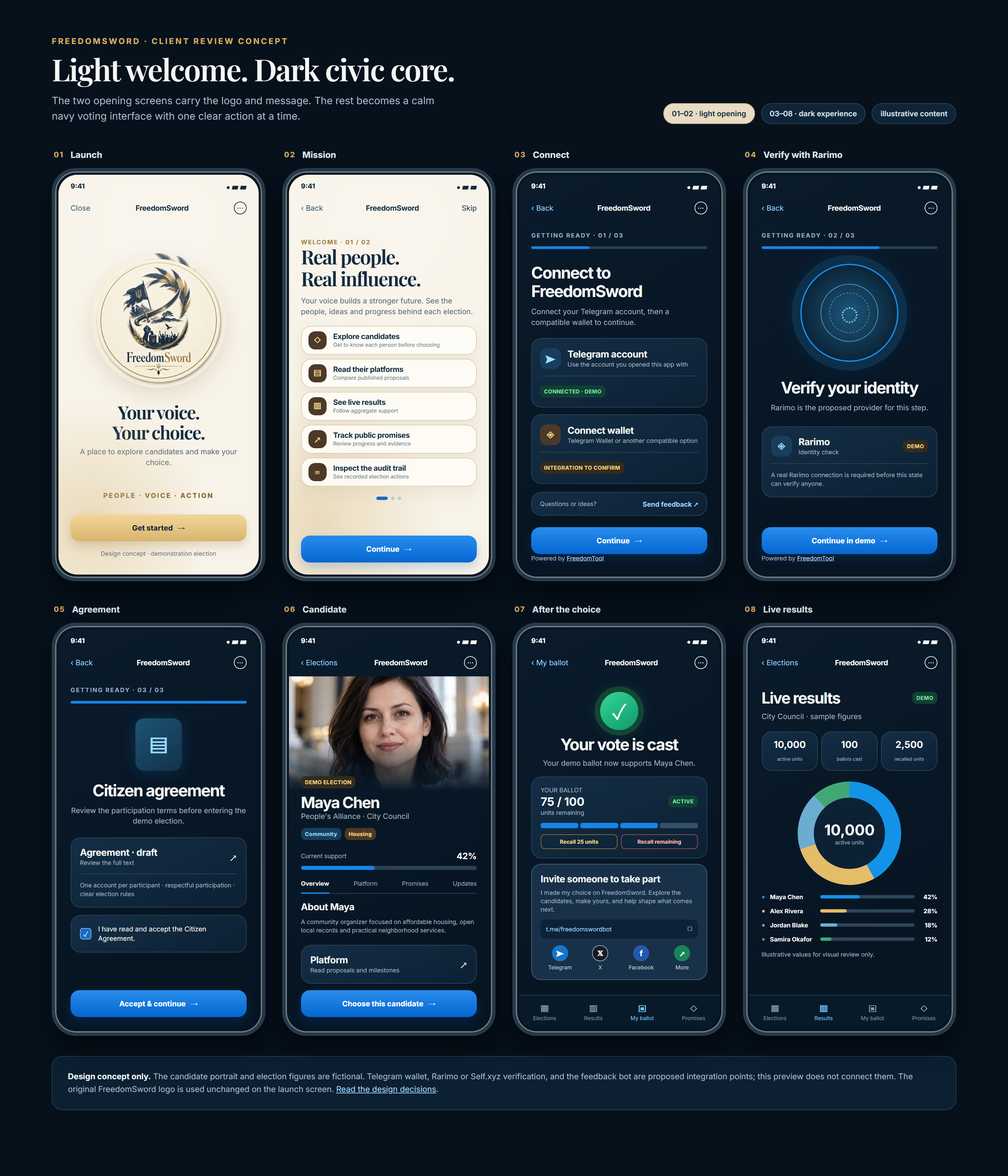
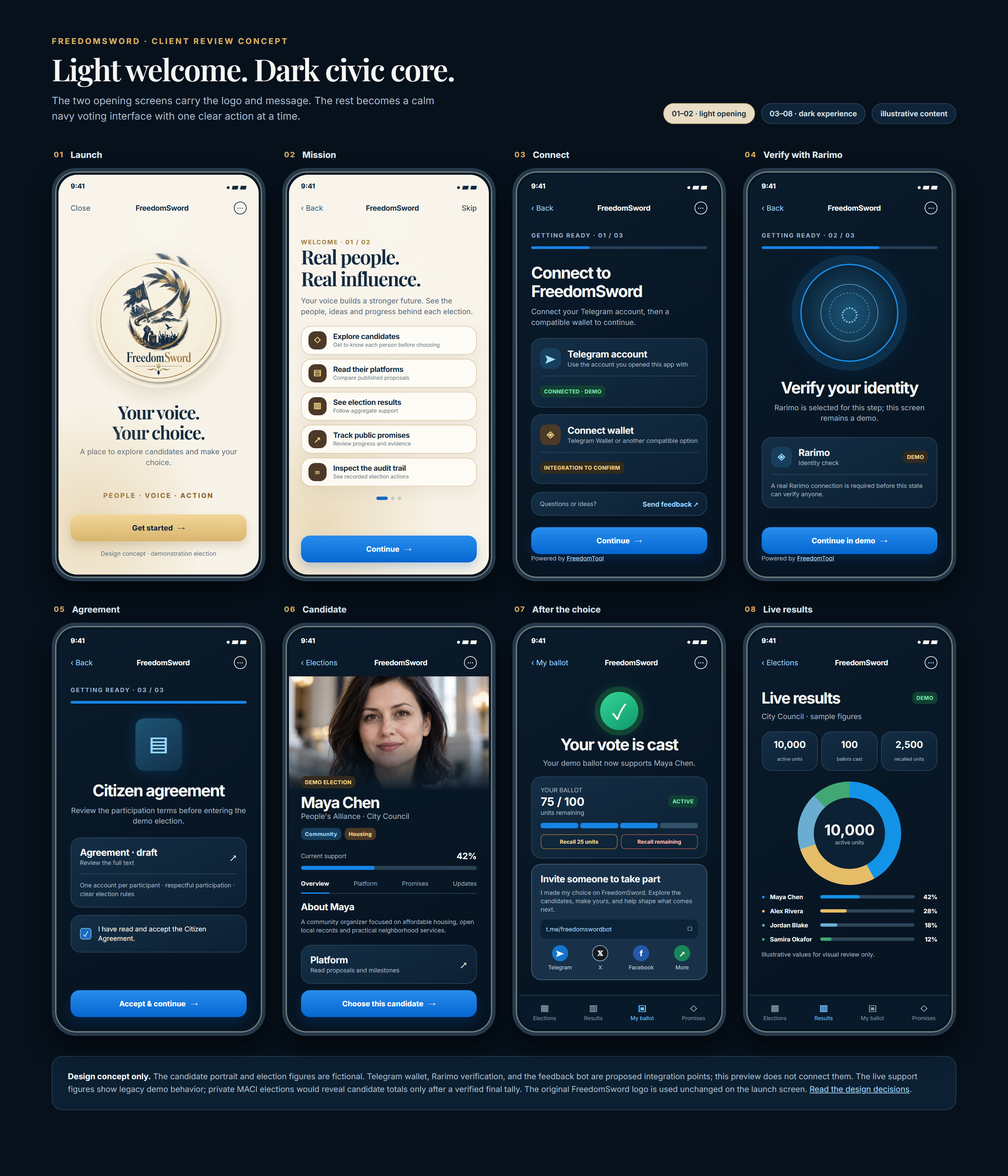
Record Rarimo and MACI private voting direction

diff --git a/docs/client-design-preview.html b/docs/client-design-preview.html
@@ -167,15 +167,15 @@
   </div>
   <section class="grid" aria-label="FreedomSword design screens">
     <article class="frame"><div class="frame-label"><span>01</span> Launch</div><div class="phone"><div class="screen light welcome"><div class="status"><span>9:41</span><span>● ▰ ▰</span></div><div class="topbar"><span class="back">Close</span><strong>FreedomSword</strong><span class="more">···</span></div><img class="logo-original" src="../frontend/public/brand/logo.jpg" alt="Original FreedomSword logo"><h2 class="serif">Your voice.<br>Your choice.</h2><p class="sub">A place to explore candidates and make your choice.</p><div class="motto">People · Voice · Action</div><div class="bottom"><a class="btn ivory" href="#mission">Get started <span aria-hidden="true">→</span></a><p class="tiny">Design concept · demonstration election</p></div></div></div></article>
-    <article class="frame" id="mission"><div class="frame-label"><span>02</span> Mission</div><div class="phone"><div class="screen light"><div class="status"><span>9:41</span><span>● ▰ ▰</span></div><div class="topbar"><span class="back">‹ Back</span><strong>FreedomSword</strong><span>Skip</span></div><div class="content mission"><p class="step" style="color:#a67e3d">Welcome · 01 / 02</p><h2>Real people.<br>Real influence.</h2><p class="sub">Your voice builds a stronger future. See the people, ideas and progress behind each election.</p><div class="mission-list"><div class="card row"><span class="icon gold">◇</span><div><h3>Explore candidates</h3><p class="tiny">Get to know each person before choosing</p></div></div><div class="card row"><span class="icon gold">▤</span><div><h3>Read their platforms</h3><p class="tiny">Compare published proposals</p></div></div><div class="card row"><span class="icon gold">▥</span><div><h3>See live results</h3><p class="tiny">Follow aggregate support</p></div></div><div class="card row"><span class="icon gold">↗</span><div><h3>Track public promises</h3><p class="tiny">Review progress and evidence</p></div></div><div class="card row"><span class="icon gold">≡</span><div><h3>Inspect the audit trail</h3><p class="tiny">See recorded election actions</p></div></div></div><div class="dots"><b></b><b></b><b></b></div></div><div class="bottom"><a class="btn" href="#connect">Continue <span aria-hidden="true">→</span></a></div></div></div></article>
+    <article class="frame" id="mission"><div class="frame-label"><span>02</span> Mission</div><div class="phone"><div class="screen light"><div class="status"><span>9:41</span><span>● ▰ ▰</span></div><div class="topbar"><span class="back">‹ Back</span><strong>FreedomSword</strong><span>Skip</span></div><div class="content mission"><p class="step" style="color:#a67e3d">Welcome · 01 / 02</p><h2>Real people.<br>Real influence.</h2><p class="sub">Your voice builds a stronger future. See the people, ideas and progress behind each election.</p><div class="mission-list"><div class="card row"><span class="icon gold">◇</span><div><h3>Explore candidates</h3><p class="tiny">Get to know each person before choosing</p></div></div><div class="card row"><span class="icon gold">▤</span><div><h3>Read their platforms</h3><p class="tiny">Compare published proposals</p></div></div><div class="card row"><span class="icon gold">▥</span><div><h3>See election results</h3><p class="tiny">Follow aggregate support</p></div></div><div class="card row"><span class="icon gold">↗</span><div><h3>Track public promises</h3><p class="tiny">Review progress and evidence</p></div></div><div class="card row"><span class="icon gold">≡</span><div><h3>Inspect the audit trail</h3><p class="tiny">See recorded election actions</p></div></div></div><div class="dots"><b></b><b></b><b></b></div></div><div class="bottom"><a class="btn" href="#connect">Continue <span aria-hidden="true">→</span></a></div></div></div></article>
     <article class="frame" id="connect"><div class="frame-label"><span>03</span> Connect</div><div class="phone"><div class="screen"><div class="status"><span>9:41</span><span>● ▰ ▰</span></div><div class="topbar"><span class="back">‹ Back</span><strong>FreedomSword</strong><span class="more">···</span></div><div class="content connect"><p class="step">Getting ready · 01 / 03</p><div class="progress" style="--w:33%"><i></i></div><h2>Connect to<br>FreedomSword</h2><p class="sub">Connect your Telegram account, then a compatible wallet to continue.</p><div class="card"><div class="row"><span class="icon">➤</span><div><h3>Telegram account</h3><p class="tiny">Use the account you opened this app with</p></div></div><div class="rule"></div><span class="tag green">CONNECTED · DEMO</span></div><div class="card"><div class="row"><span class="icon gold">◈</span><div><h3>Connect wallet</h3><p class="tiny">Telegram Wallet or another compatible option</p></div></div><div class="rule"></div><span class="tag demo">INTEGRATION TO CONFIRM</span></div><div class="card" style="margin-top:12px;padding:10px 12px"><div class="row between"><span class="tiny">Questions or ideas?</span><strong style="font-size:10px;color:#9ed5ff">Send feedback ↗</strong></div></div></div><div class="bottom"><a class="btn" href="#verify">Continue <span aria-hidden="true">→</span></a><p class="tiny">Powered by <a href="https://freedomtool.org/" target="_blank" rel="noopener noreferrer" style="color:#bcdfff;text-decoration:underline">FreedomTool</a></p></div></div></div></article>
-    <article class="frame" id="verify"><div class="frame-label"><span>04</span> Verify with Rarimo</div><div class="phone"><div class="screen"><div class="status"><span>9:41</span><span>● ▰ ▰</span></div><div class="topbar"><span class="back">‹ Back</span><strong>FreedomSword</strong><span class="more">···</span></div><div class="content verify"><p class="step">Getting ready · 02 / 03</p><div class="progress" style="--w:67%"><i></i></div><div class="orb" aria-hidden="true"><span>◌</span></div><h2>Verify your identity</h2><p class="sub">Rarimo is the proposed provider for this step.</p><div class="card"><div class="row between"><div class="row"><span class="icon">◈</span><div><h3>Rarimo</h3><p class="tiny">Identity check</p></div></div><span class="tag demo">DEMO</span></div><div class="rule"></div><p class="tiny">A real Rarimo connection is required before this state can verify anyone.</p></div></div><div class="bottom"><a class="btn" href="#agreement">Continue in demo <span aria-hidden="true">→</span></a><p class="tiny">Powered by <a href="https://freedomtool.org/" target="_blank" rel="noopener noreferrer" style="color:#bcdfff;text-decoration:underline">FreedomTool</a></p></div></div></div></article>
+    <article class="frame" id="verify"><div class="frame-label"><span>04</span> Verify with Rarimo</div><div class="phone"><div class="screen"><div class="status"><span>9:41</span><span>● ▰ ▰</span></div><div class="topbar"><span class="back">‹ Back</span><strong>FreedomSword</strong><span class="more">···</span></div><div class="content verify"><p class="step">Getting ready · 02 / 03</p><div class="progress" style="--w:67%"><i></i></div><div class="orb" aria-hidden="true"><span>◌</span></div><h2>Verify your identity</h2><p class="sub">Rarimo is selected for this step; this screen remains a demo.</p><div class="card"><div class="row between"><div class="row"><span class="icon">◈</span><div><h3>Rarimo</h3><p class="tiny">Identity check</p></div></div><span class="tag demo">DEMO</span></div><div class="rule"></div><p class="tiny">A real Rarimo connection is required before this state can verify anyone.</p></div></div><div class="bottom"><a class="btn" href="#agreement">Continue in demo <span aria-hidden="true">→</span></a><p class="tiny">Powered by <a href="https://freedomtool.org/" target="_blank" rel="noopener noreferrer" style="color:#bcdfff;text-decoration:underline">FreedomTool</a></p></div></div></div></article>
     <article class="frame" id="agreement"><div class="frame-label"><span>05</span> Agreement</div><div class="phone"><div class="screen"><div class="status"><span>9:41</span><span>● ▰ ▰</span></div><div class="topbar"><span class="back">‹ Back</span><strong>FreedomSword</strong><span class="more">···</span></div><div class="content agreement"><p class="step">Getting ready · 03 / 03</p><div class="progress" style="--w:100%"><i></i></div><div class="document" aria-hidden="true">▤</div><h2>Citizen agreement</h2><p class="sub">Review the participation terms before entering the demo election.</p><div class="card"><div class="row between"><div><h3>Agreement · draft</h3><p class="tiny">Review the full text</p></div><span>↗</span></div><div class="rule"></div><p class="tiny">One account per participant · respectful participation · clear election rules</p></div><div class="card row" style="margin-top:11px"><span class="tickbox">✓</span><p style="font-size:10px;line-height:1.4">I have read and accept the Citizen Agreement.</p></div></div><div class="bottom"><a class="btn" href="#candidate">Accept &amp; continue <span aria-hidden="true">→</span></a></div></div></div></article>
     <article class="frame" id="candidate"><div class="frame-label"><span>06</span> Candidate</div><div class="phone"><div class="screen"><div class="status"><span>9:41</span><span>● ▰ ▰</span></div><div class="topbar"><span class="back">‹ Elections</span><strong>FreedomSword</strong><span class="more">···</span></div><div class="content candidate"><div class="hero-photo"><img src="./client-design-candidate.png" alt="Fictional candidate portrait"></div><div class="name"><span class="tag demo">DEMO ELECTION</span><h2 style="margin-top:8px">Maya Chen</h2><p class="sub">People's Alliance · City Council</p></div><div class="pills"><span class="tag">Community</span><span class="tag gold">Housing</span></div><div class="row between" style="margin-top:16px"><span class="tiny">Current support</span><strong style="font-size:13px">42%</strong></div><div class="meter"><i></i></div><div class="tabs"><b>Overview</b><span>Platform</span><span>Promises</span><span>Updates</span></div><h3>About Maya</h3><p class="tiny" style="margin-top:7px">A community organizer focused on affordable housing, open local records and practical neighborhood services.</p><div class="card" style="margin-top:15px"><div class="row between"><div><h3>Platform</h3><p class="tiny">Read proposals and milestones</p></div><span>↗</span></div></div></div><div class="bottom"><a class="btn" href="#aftervote">Choose this candidate <span aria-hidden="true">→</span></a></div></div></div></article>
     <article class="frame" id="aftervote"><div class="frame-label"><span>07</span> After the choice</div><div class="phone"><div class="screen"><div class="status"><span>9:41</span><span>● ▰ ▰</span></div><div class="topbar"><span class="back">‹ My ballot</span><strong>FreedomSword</strong><span class="more">···</span></div><div class="content aftervote"><div class="success" aria-hidden="true">✓</div><h2>Your vote is cast</h2><p class="sub">Your demo ballot now supports Maya Chen.</p><div class="card ballot"><div class="row between"><div><p class="tiny">YOUR BALLOT</p><strong>75 / 100</strong><p class="tiny">units remaining</p></div><span class="tag green">ACTIVE</span></div><div class="bar"><i></i><i></i><i></i><i></i></div><div class="recall-actions"><span>Recall 25 units</span><span>Recall remaining</span></div></div><div class="card share"><h3>Invite someone to take part</h3><p class="tiny" style="margin-top:5px">I made my choice on FreedomSword. Explore the candidates, make yours, and help shape what comes next.</p><div class="link">t.me/freedomswordbot　<span style="float:right">▢</span></div><div class="social"><span><b>➤</b>Telegram</span><span><b>𝕏</b>X</span><span><b>f</b>Facebook</span><span><b>↗</b>More</span></div></div></div><div class="nav"><span><b>▦</b>Elections</span><span><b>▥</b>Results</span><span class="active"><b>▣</b>My ballot</span><span><b>◇</b>Promises</span></div></div></div></article>
     <article class="frame"><div class="frame-label"><span>08</span> Live results</div><div class="phone"><div class="screen"><div class="status"><span>9:41</span><span>● ▰ ▰</span></div><div class="topbar"><span class="back">‹ Elections</span><strong>FreedomSword</strong><span class="more">···</span></div><div class="content results"><div class="headerline"><h2>Live results</h2><span class="tag green">DEMO</span></div><p class="sub">City Council · sample figures</p><div class="stats"><div class="card"><b>10,000</b><small>active units</small></div><div class="card"><b>100</b><small>ballots cast</small></div><div class="card"><b>2,500</b><small>recalled units</small></div></div><div class="donut"><div><strong>10,000</strong><small>active units</small></div></div><div class="result-row"><span style="color:#1393e8">●</span><b>Maya Chen</b><span class="track"><i style="--w:42%;--c:#1393e8"></i></span><em>42%</em></div><div class="result-row"><span style="color:#e5bd69">●</span><b>Alex Rivera</b><span class="track"><i style="--w:28%;--c:#e5bd69"></i></span><em>28%</em></div><div class="result-row"><span style="color:#6badd1">●</span><b>Jordan Blake</b><span class="track"><i style="--w:18%;--c:#6badd1"></i></span><em>18%</em></div><div class="result-row"><span style="color:#41a875">●</span><b>Samira Okafor</b><span class="track"><i style="--w:12%;--c:#41a875"></i></span><em>12%</em></div><p class="tiny" style="margin-top:11px">Illustrative values for visual review only.</p></div><div class="nav"><span><b>▦</b>Elections</span><span class="active"><b>▥</b>Results</span><span><b>▣</b>My ballot</span><span><b>◇</b>Promises</span></div></div></div></article>
   </section>
-  <div class="footnote"><strong>Design concept only.</strong> The candidate portrait and election figures are fictional. Telegram wallet, Rarimo or Self.xyz verification, and the feedback bot are proposed integration points; this preview does not connect them. The original FreedomSword logo is used unchanged on the launch screen. <a href="./CLIENT_DESIGN_DIRECTION.md" style="color:#a6d9fc">Read the design decisions</a>.</div>
+  <div class="footnote"><strong>Design concept only.</strong> The candidate portrait and election figures are fictional. Telegram wallet, Rarimo verification, and the feedback bot are proposed integration points; this preview does not connect them. The live support figures show legacy demo behavior; private MACI elections would reveal candidate totals only after a verified final tally. The original FreedomSword logo is used unchanged on the launch screen. <a href="./CLIENT_DESIGN_DIRECTION.md" style="color:#a6d9fc">Read the design decisions</a>.</div>
 </main>
 </body>
 </html>

diff --git a/frontend/src/components/welcome/WelcomeScreen.tsx b/frontend/src/components/welcome/WelcomeScreen.tsx
@@ -41,7 +41,7 @@ const stageCopy = {
     missionSteps: [
       'Explore candidates',
       'Read their platforms',
-      'See live results',
+      'See election results',
       'Track public promises',
       'Inspect the audit trail',
     ],
@@ -82,7 +82,7 @@ const stageCopy = {
     missionSteps: [
       'Знайомтеся з кандидатами',
       'Читайте їхні програми',
-      'Дивіться результати',
+      'Дивіться результати виборів',
       'Стежте за обіцянками',
       'Переглядайте журнал дій',
     ],

diff --git a/docs/CLIENT_DESIGN_DIRECTION.md b/docs/CLIENT_DESIGN_DIRECTION.md
@@ -1,14 +1,14 @@
 # FreedomSword — client design direction
 
-This is a review concept based on Arsen's feedback of 10 and 13–14 October 2026 and the twelve marked screenshots. The visual preview is [client-design-preview.html](./client-design-preview.html), with an [updated review board](./FreedomSword-client-feedback-2026-10-14.png). It does not connect new services.
+This is a review concept based on Arsen's feedback of 10 and 13–14 October 2026 and the twelve marked screenshots. The visual preview is [client-design-preview.html](./client-design-preview.html), with an [updated review board](./FreedomSword-client-feedback-2026-10-14.png). It does not connect new services. The selected Rarimo and MACI architecture is recorded in [PRIVATE_VOTING_DECISION.md](./PRIVATE_VOTING_DECISION.md).
 
 ## What the client chose
 
 - Use a **dark navy interface after the first two screens**. The logo and opening message may remain light and patriotic. Keep later screens quiet and functional, with only occasional blue/gold accents and no repeated flag or landscape treatment.
-- Use **reference 9 as the main flow and layout source**. Use **reference 10 for live results**. The marked individual elements from otherwise rejected boards remain useful: the portrait-led candidate profile, the verification-in-progress visual, the ballot-box illustration, and the post-vote sharing card.
+- Use **reference 9 as the main flow and layout source**. Use **reference 10 for results after a private poll's verified tally**. The marked individual elements from otherwise rejected boards remain useful: the portrait-led candidate profile, the verification-in-progress visual, the ballot-box illustration, and the post-vote sharing card.
 - The opening message should lead with **“Your voice. Your choice.”**, **“Real people. Real influence.”**, or **“People in control. Always.”** Use FreedomSword consistently in the introductory description. Remove the “Recall with freedom” slogan and do not reveal vote recall in introductory feature lists.
-- The second screen should present **five benefits**: explore candidates, read their platforms, see live results, track public promises, and inspect the audit trail. Avoid a “one person, one voice” claim while eligibility uses a mock check.
-- Connect the Telegram account **and a compatible wallet** in onboarding. Show Rarimo as the proposed primary identity-verification provider; evaluate Self.xyz as a second option. Add “Powered by [FreedomTool](https://freedomtool.org/)” as a live link. Keep mock verification explicit until a real provider is integrated.
+- The second screen should present **five benefits**: explore candidates, read their platforms, see election results, track public promises, and inspect the audit trail. Avoid a “one person, one voice” claim while eligibility uses a mock check.
+- Connect the Telegram account **and a compatible wallet** in onboarding. Rarimo is the selected identity-verification provider. Add “Powered by [FreedomTool](https://freedomtool.org/)” as a live link only when the integration supports that attribution. Keep mock verification explicit until Rarimo is integrated.
 - Put the invitation/share card **after a citizen makes a choice**, with Telegram contacts, social networks, and copy-link actions. Use a more motivating invitation message. Place a simple **Send feedback** action in the persistent menu.
 - Keep the ballot screen's recall controls discoverable **after voting**. The client did not ask to remove recall from the product.
 
@@ -17,11 +17,11 @@ This is a review concept based on Arsen's feedback of 10 and 13–14 October 202
 1. Light logo launch with the unmodified FreedomSword logo and one short statement.
 2. Light mission/introduction screen with five short benefits; no recall preview.
 3. Dark connection screen: Telegram first, wallet second, with clear progress and connection status.
-4. Dark verification screen with a calm progress state; show Rarimo as the proposed primary provider and keep the current mock status visibly marked until integration is real.
+4. Dark verification screen with a calm progress state; show Rarimo as the selected provider and keep the current mock status visibly marked until integration is real.
 5. Dark citizen agreement screen with the agreement itself and a deliberate acceptance action.
 6. Dark elections and portrait-led candidate view with platform, promises, and vote action.
 7. Dark vote confirmation and post-vote ballot screen. Reveal recall controls here; show the invitation card after the vote succeeds.
-8. Dark live results based on reference 10, using only figures actually available from the backend.
+8. Dark results based on reference 10. Legacy demo elections may show live aggregates; MACI elections reveal candidate totals only after a verified final tally.
 
 ## Visual system
 
@@ -38,8 +38,8 @@ This is a review concept based on Arsen's feedback of 10 and 13–14 October 202
 ## Decisions still needed for implementation
 
 - Confirm which wallet integration the client means by “Telegram wallet (Walt)” and whether FreedomTool's actual flow supports it inside Telegram Mini Apps. A wallet button in the preview is a design proposal, not a working connection.
-- Compare [Rarimo](https://docs.rarimo.com/freedom-tool/) and [Self.xyz](https://docs.self.xyz/) against document coverage, jurisdiction rules, uniqueness/nullifier design, Telegram Mini App flow, and recovery needs. The current project uses mock verification; the interface must not claim a real identity check before it exists.
-- Evaluate [MACI](https://maci.pse.dev/docs/introduction/) as a future voting architecture, rather than assuming it can be inserted behind the current ballot UI. A custom eligibility gatekeeper would need to bind an accepted identity proof and an election-scoped uniqueness value to a MACI key without exposing identity. MACI also requires a coordinator and verifiable tally process. Its replaceable encrypted votes differ from FreedomSword's current one-initial-ballot and policy-limited recall rules, so those rules and the live-results model need an explicit product decision before migration. MACI reduces bribery incentives under its coordinator trust assumptions; it does not make bribery impossible.
+- Implement [Rarimo](https://docs.rarimo.com/freedom-tool/) proof verification with election-scoped uniqueness and a Telegram Mini App flow. The current project uses mock verification; the interface must not claim a real identity check before it exists.
+- Migrate new elections to [MACI](https://maci.pse.dev/docs/introduction/) with encrypted, replaceable votes and a trusted coordinator. Do not reuse the current plaintext ballot ledger or public live candidate tallies for MACI elections. The coordinator can decrypt ballots; choices remain private from the public and other voters. MACI reduces bribery incentives under its coordinator trust assumptions; it does not make bribery impossible.
 - Choose the destination for the feedback bot and the final approved share message. A Telegram deep link can be used for sharing, but a new feedback bot needs its own handle or endpoint.
 - Supply or approve real candidate portraits and election data. The preview's portrait and numbers are fictional sample content.
 

diff --git a/docs/PRIVATE_VOTING_DECISION.md b/docs/PRIVATE_VOTING_DECISION.md
@@ -1,0 +1,42 @@
+# FreedomSword private voting decision
+
+Status: selected target architecture, not yet implemented. The deployed and local app still use mock eligibility and the legacy plaintext ballot workflow. No current election should be described as a MACI or Rarimo election.
+
+## Product rules
+
+- Rarimo is the only planned eligibility provider. A Telegram account is an app login, not proof that a person is unique or eligible.
+- New private elections use MACI for encrypted ballots and a verifiable final tally. A voter may replace a vote while the poll is open; the last valid message determines the counted choice under the selected MACI poll configuration.
+- Individual choices are private from the public and other voters. A trusted MACI coordinator may decrypt them to process the tally. The UI must explain this trust boundary instead of promising privacy from everyone.
+- Candidate totals for a private election appear only after the poll closes and the tally proof is verified. Participation counts may be shown earlier only if they cannot reveal individual choices.
+- Existing one-ballot, recall-based elections remain labeled as legacy demonstration elections. Do not silently convert existing ballots or mix the two protocols within an election.
+
+## Why the current app does not meet this target
+
+`Vote.candidateId` and `VoteEvent` are held in MongoDB, `GET /api/me` returns a candidate choice, public aggregates are computed from those rows, and the operator can relate ballots to accounts. The current Ethereum contract mirrors cast and recall actions. The eligibility provider is `mock`. None of this is MACI or Rarimo verification, so changing labels or encrypting one database field would not establish private voting.
+
+## Integration boundary
+
+1. Add an explicit election protocol version. New MACI elections must have separate registration, voting, result, and audit paths; legacy endpoints must reject requests for them. Freeze the protocol before opening an election.
+2. Integrate Rarimo passport proof verification. Verify proof validity, jurisdiction and election eligibility, expiry, and an election-scoped uniqueness/nullifier value. Bind the accepted proof to a voter-generated MACI public key in a custom registration gate. Never accept a client-supplied `verified: true` flag as evidence.
+3. Generate and retain the MACI private key on the citizen's device. The backend receives neither the private key nor a plaintext candidate choice. Define a recovery flow before release; losing this key can prevent a voter from changing a ballot.
+4. Deploy a MACI poll and the Rarimo-aware gate on a compatible EVM network. The current Sepolia setup can remain the initial test network, but Rarimo registry replication and verifier availability on Sepolia must be confirmed before choosing the production network. Do not assume Rarimo and MACI contracts are already interoperable.
+5. Submit encrypted, signed MACI messages. Store only opaque transaction references and operational status in the Express/MongoDB app. Remove candidate choice, choice-derived commitments, and account-to-choice links from new-election API responses, audit payloads, logs, and outbox records.
+6. Run the trusted MACI coordinator as a separate service with protected keys and restricted logs. It processes messages and publishes the tally with its zero-knowledge proof after the poll closes. A Vercel request handler is not a substitute for this long-running role.
+7. Publish aggregate results only after verifying the proof and mapping MACI vote options to the election's immutable candidate list. Keep the proof, contract addresses, poll ID, and tally artifact available for independent inspection.
+
+## Release checks
+
+- Replayed or duplicate Rarimo proofs cannot register extra MACI keys for the same election.
+- A proof for one election cannot register in another without that election's own eligibility check.
+- Vote changes are accepted only inside the poll window, and tally tests demonstrate that the correct final valid message is counted.
+- Express, MongoDB, logs, audit exports, and public chain events contain no plaintext candidate choice linked to a citizen for MACI elections.
+- Frontend messages distinguish an encrypted submission from a final counted vote, and do not show provisional candidate totals during a private poll.
+- Define a minimum publication threshold or other small-poll policy: a final aggregate can reveal an individual's choice when very few citizens participate.
+- End-to-end tests cover invalid proofs, key recovery failure, duplicate registration, coordinator outage, encrypted message submission, proof verification, and legacy-election isolation.
+- An independent security and privacy review precedes any claim of production-grade or binding elections.
+
+## Implementation constraints
+
+Rarimo documents both [off-chain verification](https://docs.rarimo.com/zk-passport/guide-off-chain-verification/) and [on-chain verification](https://docs.rarimo.com/zk-passport/guide-on-chain-verification/). Its self-hosted off-chain verificator currently documents a PostgreSQL dependency, while FreedomSword's chosen application storage is MongoDB and Ethereum. Evaluate on-chain verification or an external verifier without silently adding PostgreSQL to this repository. The public verifier is a development dependency, not an unexamined production trust anchor.
+
+[MACI's documentation](https://maci.pse.dev/docs/introduction/) describes privacy from everyone except a trusted coordinator and proof-backed final tallies. MACI reduces bribery incentives; it cannot honestly be described as making bribery impossible.

diff --git a/README.md b/README.md
@@ -47,4 +47,6 @@ MongoDB stores accounts, sessions, eligibility records, ballots, audit events, a
 
 The current `ELIGIBILITY_PROVIDER=mock` verifies no real person and does not prevent one person from using multiple Telegram accounts. Rarimo and a Telegram wallet are **not** integrated. The contract does not change that limitation. Keep fictional/demo labeling visible.
 
+The selected future architecture is Rarimo-only eligibility and MACI encrypted voting with a trusted coordinator. It is not implemented or deployed. New private elections will require separate registration and tally paths; existing ballots and live aggregates must not be relabeled as private. See [the private voting decision](docs/PRIVATE_VOTING_DECISION.md).
+
 See [ARCHITECTURE.md](ARCHITECTURE.md), [DATABASE.md](DATABASE.md), [CONTRACT.md](CONTRACT.md), [SECURITY.md](SECURITY.md), and [RECOVERY.md](RECOVERY.md) for implementation and operations. Telegram Mini App validation follows the [official Telegram specification](https://core.telegram.org/bots/webapps#validating-data-received-via-the-mini-app); MongoDB transaction setup follows [Prisma's MongoDB guide](https://www.prisma.io/docs/orm/v6/overview/databases/mongodb).
